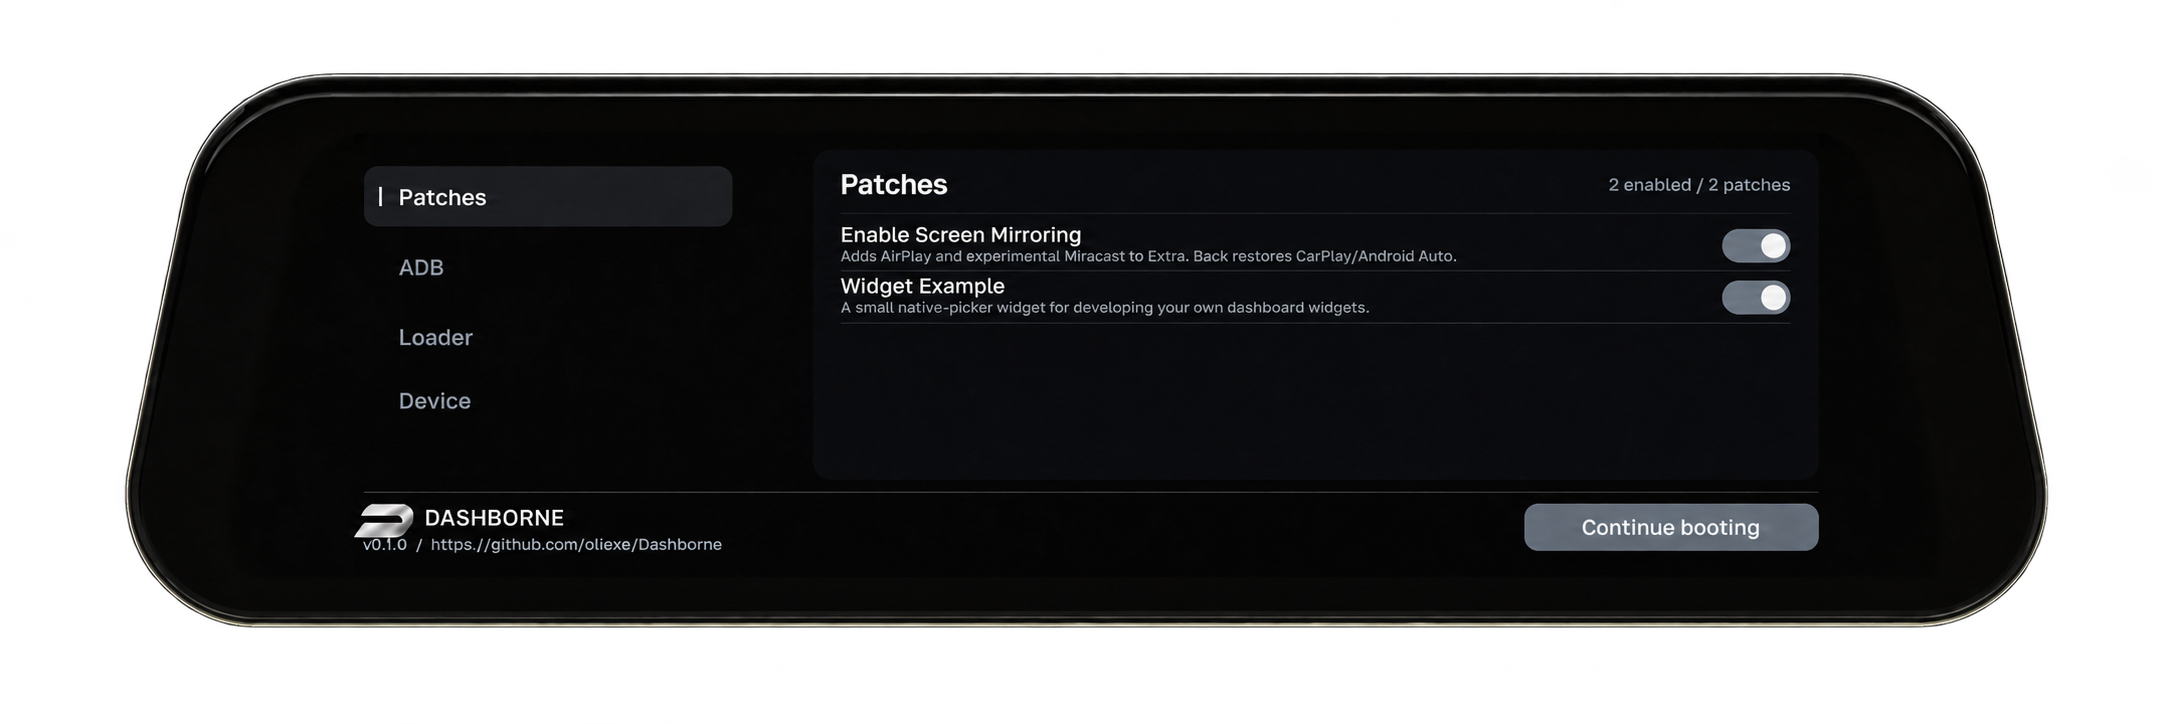
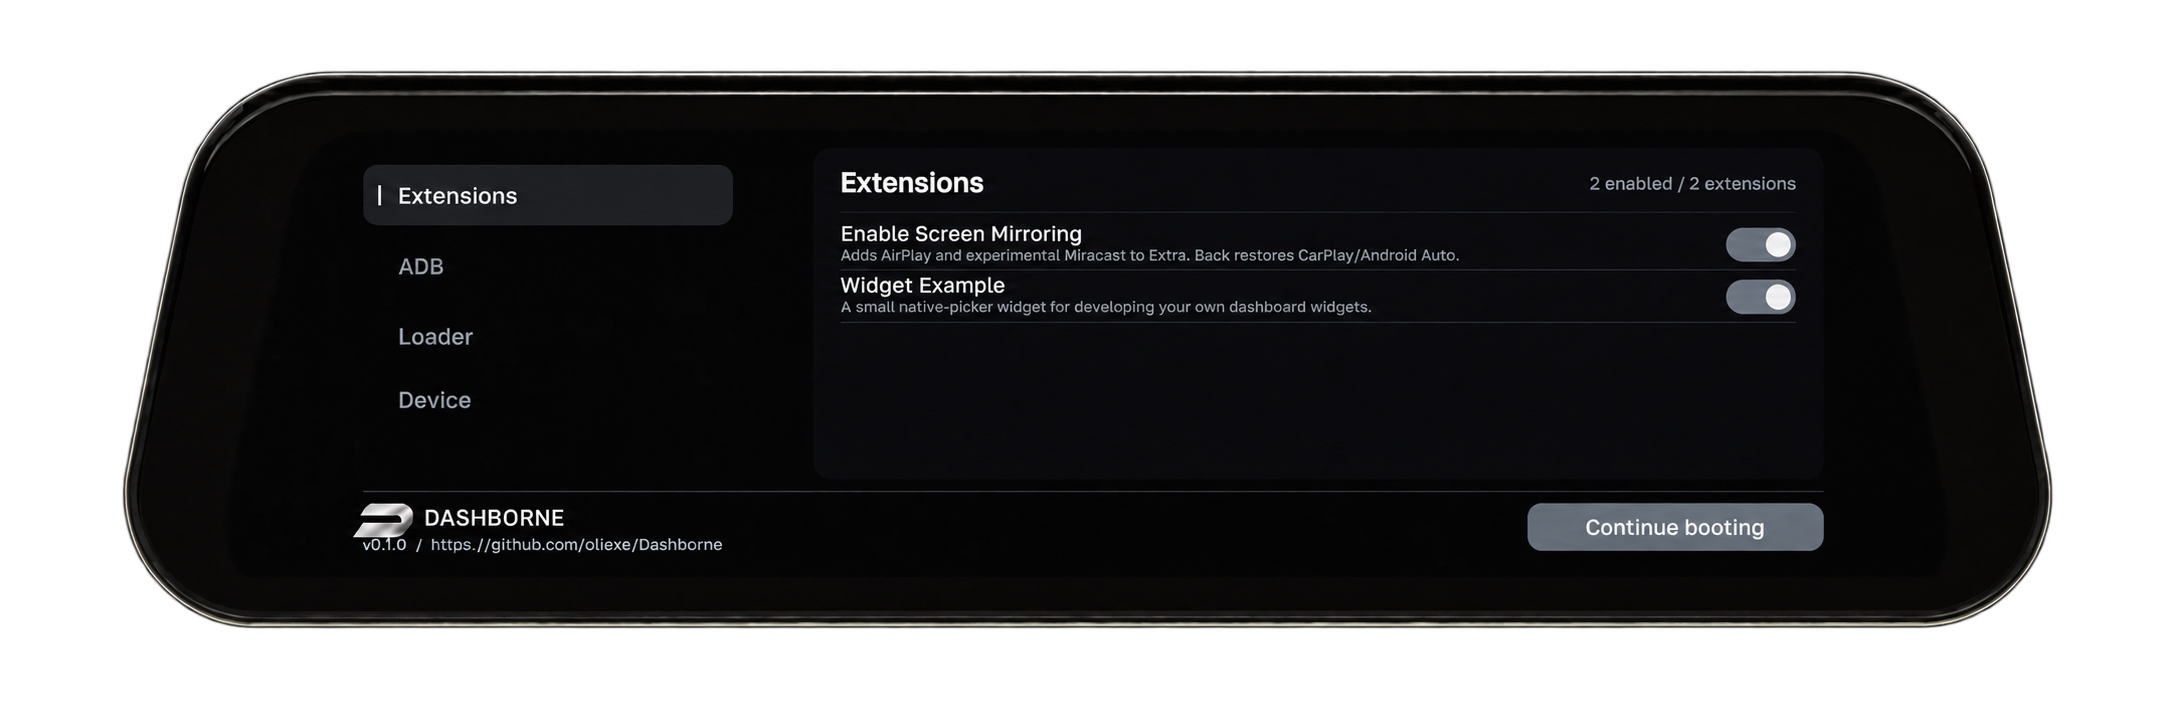
[Docs] Refresh boot menu image with Extensions page

diff --git a/README.md b/README.md
@@ -94,7 +94,7 @@ With a Dashborne microSD card inserted, the S3XY DASH shows the Dashborne boot
 screen at startup. **Tap the screen within three seconds** to enter the boot menu;
 otherwise, Dashborne continues to the official dashboard with your selected extensions.
 
-![Dashborne boot menu on the S3XY DASH, showing the boot options](docs/images/boot-menu.png)
+![Dashborne boot menu on the S3XY DASH, showing the Extensions page](docs/images/boot-menu.png)
 
 - Extensions: enable or disable extensions on your microSD card.
 - ADB: enable root access over Wi-Fi, useful for development and modding the device.
